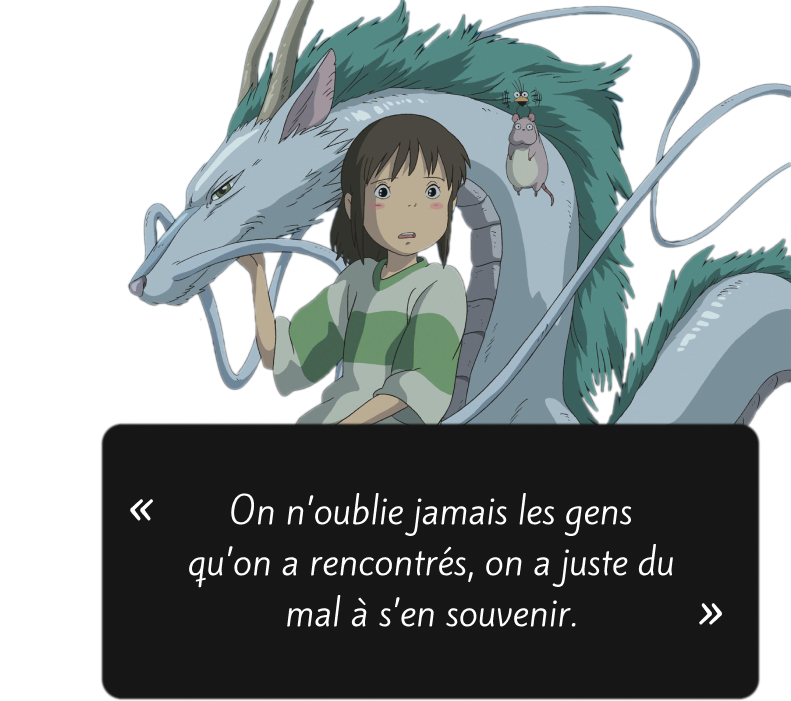
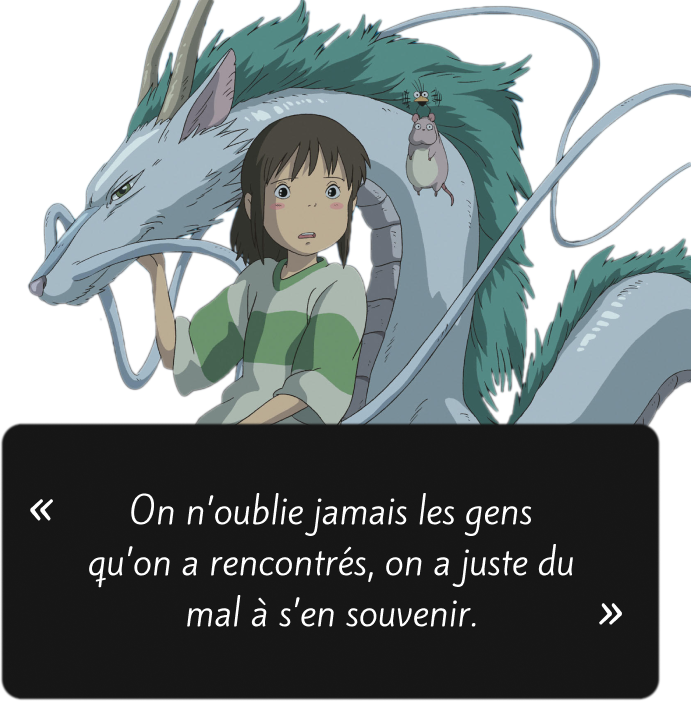
Ajout images et balise picture

diff --git a/index.html b/index.html
@@ -26,7 +26,7 @@
     </header>
 
     <main>
-        <section class="grille1 maxWidth">
+        <section class="grille1">
             <div class="bloc__titre">
                 <p class="fil__ariane"><a class="fil__lien" href="#">Accueil</a> > <a class="fil__lien" href="#">Cinéma</a> > Le voyage de Chihiro</p>
                 <h1 class="titre">LE VOYAGE DE CHIHIRO</h1>
@@ -38,7 +38,10 @@
                 jamais créés par Miyazaki et est devenu un classique de l’animation japonaise. Les thèmes principaux du
                 film sont la croissance personnelle, la maturité et la découverte de soi.</p>
 
-            <img class="haku" src="assets/images/haku.png" alt="Haku et Chihiro">
+            <picture class="haku">
+                <source srcset="assets/images/1x/haku.png 1x, assets/images/2x/haku@2x.png 2x">
+                <img src="assets/images/haku.png" alt="On n'oublie jamais les gens qu'on a rencontrés, on a juste du mal à s'en souvenir">
+            </picture>
 
             <h3 class="titre1">La beauté de Spirited Away : une aventure fantastique dans un monde étrange</h3>
             <p class="texte1">L'histoire de "Spirited Away" est celle d'une jeune fille nommée Chihiro qui, après avoir erré avec ses
@@ -57,12 +60,18 @@
                 grande partie du film, ressemble à un palais. L'architecture grandiose et le flot incessant de
                 personnages bizarres dans les couloirs donnent l'impression d'un endroit que l'on visiterait en rêve.
             </p>
-
-            <img class="sprites1" src="assets/images/sprites1.png" alt="Groupe de Soot Sprites">
+            
+            <picture class="sprites1">
+                <source srcset="assets/images/1x/sprites1.png 1x, assets/images/2x/sprites1@2x.png 2x">
+                <img src="assets/images/sprites1.png" alt="Groupe de Soot Sprites">
+            </picture>
         </section>
 
         <section class="grille3">
-            <img class="poster" src="assets/images/poster.jpg" alt="Affiche du film">
+            <picture class="poster">
+                <source srcset="assets/images/1x/poster.jpg 1x, assets/images/2x/poster@2x-100.jpg 2x">
+                <img src="assets/images/poster.jpg" alt="Affiche du film">
+            </picture>
             <h3 class="titre2">Les événements étranges et captivants de l'aventure de Chihiro</h3>
             <p class="texte3">L'aventure de Chihiro comporte également de nombreux événements et séquences étranges qui correspondent
                 parfaitement à la nature étrange et séduisante des images. Qu'il s'agisse de ses interactions bizarres
@@ -73,11 +82,17 @@
                 l'idée de quitter les bains publics semble triste parce que c'est un endroit si fascinant et magique.
                 Même si le départ est une partie cruciale de ce que Chihiro doit faire, la nature étrange et
                 inexplicablement délicieuse de ce monde nous fait presque souhaiter qu'elle reste.</p>
-            <img class="sprites2" src="assets/images/sprites2.png" alt="Groupe de Soot Sprites">
-            <img class="sprites3" src="assets/images/sprites3.png" alt="Groupe de Soot Sprites">
+            <picture class="sprites2">
+                <source srcset="assets/images/1x/sprites2.png 1x, assets/images/2x/sprites2@2x.png 2x">
+                <img src="assets/images/sprites2.png" alt="Groupe de Soot Sprites">
+            </picture>
+            <picture class="sprites3">
+                <source srcset="assets/images/1x/sprites3.png 1x, assets/images/2x/sprites3@2x.png 2x">
+                <img src="assets/images/sprites3.png" alt="Groupe de Soot Sprites">
+            </picture>
         </section>
 
-        <section class="grille4 maxWidth">
+        <section class="grille4">
             <h3 class="titre3">La magie envoûtante du monde de Spirited Away</h3>
             <p class="texte5">L'histoire de "Spirited Away" est sans aucun doute excellente, mais la véritable magie du film réside
                 dans le monde créé par Miyazaki. Les créatures étranges et la magie vous donnent envie d'y aller et de
@@ -86,8 +101,14 @@
                 éblouissante, merveilleuse et parfois effrayante du film. Il s'agit d'un film d'animation très différent
                 de ceux des studios d'animation occidentaux, et c'est précisément pour cette raison qu'il faut le
                 regarder.</p>
-            <img class="oiseauSouris" src="assets/images/oiseauSouris.png" alt="Un oiseau et une souris du film">
-            <img class="train" src="assets/images/train.png" alt="Chihiro et No-Face dans le train">
+            <picture class="oiseauSouris">
+                <source srcset="assets/images/1x/oiseauSouris.png 1x, assets/images/2x/oiseauSouris@2x.png 2x">
+                <img src="assets/images/oiseauSouris.png" alt="Un oiseau et une souris du film">
+            </picture>
+            <picture class="train">
+                <source srcset="assets/images/1x/train.png 1x, assets/images/2x/train@2x.png 2x">
+                <img src="assets/images/train.png" alt="Chihiro et No-Face dans le train">
+            </picture>
         </section>
     </main>
 

diff --git a/scss/styles.scss b/scss/styles.scss
@@ -18,6 +18,8 @@ body {
     background-color: $beige;
 }
 
+// ENTÊTE
+
 header {
     background-color: $lightBlack;
     padding: 2rem 0;
@@ -37,21 +39,6 @@ header {
 
     @media (min-width: 600px) {
         width: 15%;
-    }
-}
-
-.footer__logo {
-    width: 30%;
-    margin: 0 auto;
-
-    @media (min-width: 600px) {
-        margin: 0 7rem 0 0;
-        width: 25%;
-    }
-
-    @media (min-width: 900px) {
-        width: 20%;
-        padding-bottom: 0;
     }
 }
 
@@ -77,11 +64,8 @@ header {
     color: $lightRed;
 }
 
-// .maxWidth {
-//     max-width: 1200px;
-//     margin: 0 auto;
-//     padding: 0 1rem;
-// }
+// MAIN
+// GRILLE 1
 
 .fil__ariane {
     margin: 0;
@@ -165,6 +149,8 @@ p, h1, h2, h3 {
     }
 }
 
+// GRILLE 2
+
 .poster {
     width: 70%;
     padding-top: 4rem;
@@ -211,13 +197,32 @@ p, h1, h2, h3 {
     padding: 0 1rem;
 }
 
+// GRILLE 3
+
 .grille3 {
     background-color: $lightRed;
     place-items: center;
 }
 
+// PIED DE PAGE
+
 footer {
     background-color: $lightBlack;
+}
+
+.footer__logo {
+    width: 30%;
+    margin: 0 auto;
+
+    @media (min-width: 600px) {
+        margin: 0 7rem 0 0;
+        width: 25%;
+    }
+
+    @media (min-width: 900px) {
+        width: 20%;
+        padding-bottom: 0;
+    }
 }
 
 .footer__contenu {
@@ -260,15 +265,17 @@ footer {
 }
 
 .contenu__reseaux {
-    padding-top: 1rem;
+    padding-top: 2rem;
     margin: 0 auto;
 
     @media (min-width: 600px) {
         margin: 0;
+        padding-top: 0;
     }
 
     @media (min-width: 900px) {
         margin: 0 auto;
+        padding-top: 0;
     }
 }
 
@@ -288,6 +295,7 @@ footer {
 
 label {
     display: block;
+    padding-bottom: 16px;
 }
 
 .infolettre {

diff --git a/assets/css/styles.css b/assets/css/styles.css
@@ -693,23 +693,6 @@ header .inner {
   }
 }
 
-.footer__logo {
-  width: 30%;
-  margin: 0 auto;
-}
-@media (min-width: 600px) {
-  .footer__logo {
-    margin: 0 7rem 0 0;
-    width: 25%;
-  }
-}
-@media (min-width: 900px) {
-  .footer__logo {
-    width: 20%;
-    padding-bottom: 0;
-  }
-}
-
 .menu {
   display: flex;
   justify-content: space-around;
@@ -881,6 +864,23 @@ footer {
   background-color: #181818;
 }
 
+.footer__logo {
+  width: 30%;
+  margin: 0 auto;
+}
+@media (min-width: 600px) {
+  .footer__logo {
+    margin: 0 7rem 0 0;
+    width: 25%;
+  }
+}
+@media (min-width: 900px) {
+  .footer__logo {
+    width: 20%;
+    padding-bottom: 0;
+  }
+}
+
 .footer__contenu {
   max-width: 1200px;
   margin: 0 auto;
@@ -925,17 +925,19 @@ footer {
 }
 
 .contenu__reseaux {
-  padding-top: 1rem;
+  padding-top: 2rem;
   margin: 0 auto;
 }
 @media (min-width: 600px) {
   .contenu__reseaux {
     margin: 0;
+    padding-top: 0;
   }
 }
 @media (min-width: 900px) {
   .contenu__reseaux {
     margin: 0 auto;
+    padding-top: 0;
   }
 }
 
@@ -957,6 +959,7 @@ footer {
 
 label {
   display: block;
+  padding-bottom: 16px;
 }
 
 .infolettre {
